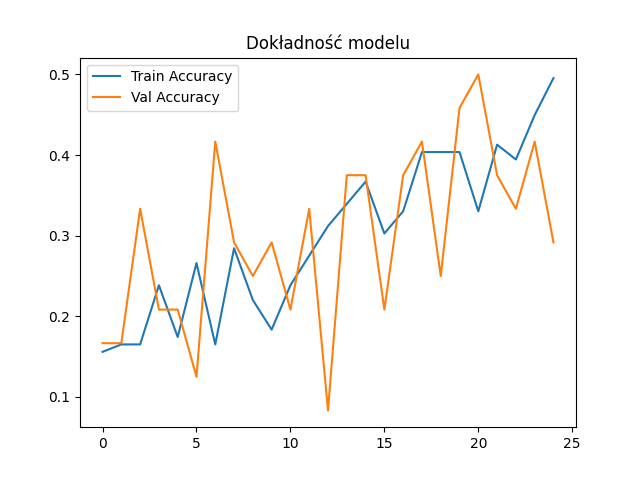
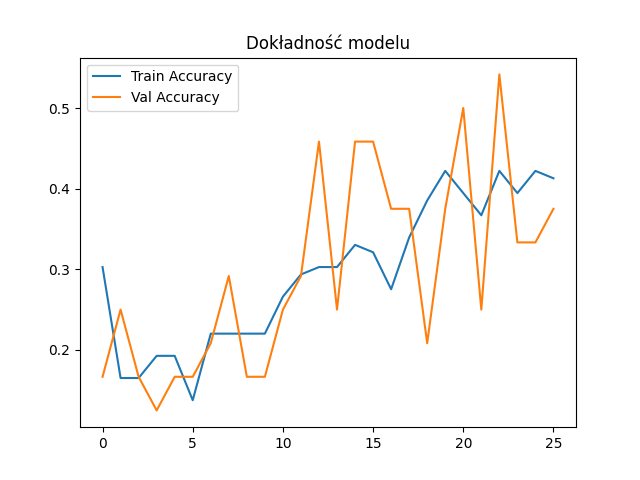
update: stage 3; add: stage 4, 2 problems
Added two problems: images under angle, deleted saved models

diff --git a/script/train-dice-model/two-dices.py b/script/train-dice-model/two-dices.py
@@ -19,14 +19,14 @@ from tensorflow.keras.preprocessing.image import ImageDataGenerator
 
 IMG_SIZE = (224, 224)
 BATCH_SIZE = 32
-EPOCHS = 30
-TRIAL = 9
+EPOCHS = 300
+TRIAL = 21
 NUM_CLASSES = 21
 
-ONE_DICE_MODEL_PATH = 'model/dice-model/best-model/best-one-dice.keras'
+ONE_DICE_MODEL_PATH = 'model/dice-model/two-dices/best-dice-model-trial-20.keras'
 DATASET_PATH = 'train/image/two-dices/images'
 ANNOTATION_FILE = 'train/image/two-dices/rolls.xml'
-MODEL_SAVE_PATH = 'model/dice-model/train/two-dices'
+MODEL_SAVE_PATH = 'model/dice-model/two-dices'
 RAPORT_SAVE_PATH = 'raport/train-dice-model/two-dices'
 
 os.makedirs(MODEL_SAVE_PATH, exist_ok=True)
@@ -44,12 +44,13 @@ except NameError:
     print("Uwaga: nie można zapisać kopii skryptu (__file__ nie istnieje)")
 
 train_datagen = ImageDataGenerator(
-    rotation_range=15,
-    width_shift_range=0.1,
-    height_shift_range=0.1,
-    shear_range=10,
-    zoom_range=0.1,
-    brightness_range=[0.8, 1.2],
+    rotation_range=25,
+    width_shift_range=0.15,
+    height_shift_range=0.15,
+    shear_range=20,
+    zoom_range=[0.9, 1.1],
+    brightness_range=[0.7, 1.3],
+    channel_shift_range=10.0,
     horizontal_flip=True,
     vertical_flip=False,
     fill_mode='nearest',

diff --git a/script/train-dice-model/one-dice.py b/script/train-dice-model/one-dice.py
@@ -21,11 +21,11 @@ def create_model(filters=[32, 64, 128], dropout=0.3):
 
 IMG_SIZE = (224, 224)
 BATCH_SIZE = 32
-EPOCHS = 30
+EPOCHS = 50
 DATASET_PATH = 'train/image/one-dice'
-MODEL_SAVE_PATH = 'model/train-dice-model/one-dice'
+MODEL_SAVE_PATH = 'model/dice-model/one-dice'
 RAPORT_SAVE_PATH = 'raport/train-dice-model/one-dice'
-TRIAL = 10
+TRIAL = 14
 
 datagen = ImageDataGenerator(
     rescale=1./255,
@@ -33,10 +33,10 @@ datagen = ImageDataGenerator(
     rotation_range=10,
     width_shift_range=0.05,
     height_shift_range=0.05,
-    shear_range=0.0,
-    zoom_range=0.0,
+    shear_range=0.05,
+    zoom_range=0.05,
     horizontal_flip=True,
-    # brightness_range=[0.9, 1.1],
+    brightness_range=[0.8, 1.2],
     fill_mode='nearest'
 )
 
@@ -76,7 +76,7 @@ history = model.fit(
     callbacks=callbacks
 )
 
-model.save(os.path.join(MODEL_SAVE_PATH, "dice-model-one-dice-trial-"+str(TRIAL)+".keras"))
+model.save(os.path.join(MODEL_SAVE_PATH, "trial-"+str(TRIAL)+".keras"))
 
 print(f'Model zapisany')
 

diff --git a/raport/raport.md b/raport/raport.md
@@ -31,18 +31,28 @@ Prace rozpocząłem od wyboru technologii, w której zrealizuję projekt. Zdecyd
 Skorzystałem z ogólnodostępnych datasetów zdjęć kości do gry. Zebrałem około 2000 zdjęć przedstawiających różne układy kostek z różnych perspektyw [zobacz załączniki](#załączniki). Następnie przygotowałem strukturę projektu oraz odpowiednio skonfigurowałem `.gitignore`.
 
 ### Etap 3 - trenowanie rozpoznawania jednej kości
-Celem tego etapu było stworzenie modelu AI, który rozpoznaje liczbę oczek (1–6) na pojedynczej kostce. Eksperymentowałem z różnymi parametrami augmentacji oraz architektury CNN. W Trialu 10 zastosowałem 2 warstwy Conv2D (32 i 64 filtry), dropout 0.3 oraz lekką augmentację. Ten wariant okazał się najskuteczniejszy – zarówno accuracy na zbiorze walidacyjnym, jak i treningowym rosło stabilnie bez oznak przeuczenia.
+Celem tego etapu było stworzenie modelu AI, który rozpoznaje liczbę oczek (1–6) na pojedynczej kostce. Eksperymentowałem z różnymi parametrami augmentacji oraz architektury CNN. Na podstawie wcześniejszych prób, które zakończyły się błędem zarządzania plikami i utratą modeli (Trials 9 i 10) - [zobacz problem](#usunięty-zapis-modelu)- wybrałem dwa najlepsze warianty: Trial 13 i Trial 14. Wersja Trial 13 była bardziej stabilna, natomiast Trial 14 wyróżniała się bardziej agresywną augmentacją. Zakładając, że model jest na etapie wstępnego uczenia (prelearning) uznałem, że Trial 14 będzie lepszym wyborem, ponieważ trenowałem go na ograniczonym zbiorze danych, a dalsze etapy powinny stabilizować model.
+
+W trialu 14 zastosowałem dwie warstwy Conv2D (32 i 64 filtry), dropout na poziomie 0.3 oraz lekką augmentację. Ten wariant okazał się najskuteczniejszy – zarówno accuracy na zbiorze walidacyjnym, jak i treningowym rosło znacząco bez oznak przeuczenia. Najwyższa osiągnięta dokładność wyniosła 54,2%. Po zakończeniu treningu przystąpiłem do kolejnego etapu, wykorzystując wytrenowany model jako punkt startowy.
 
 ### Etap 4 - trenowanie rozpoznawania dwóch kości
+Etap 4 miał na celu kontynuację nauki modelu wytrenowanego w Etapie 3, tym razem na bardziej wymagającym zbiorze danych. Nowy zbiór zawierał 800 zdjęć przedstawiających dwie kości sfotografowane z trudnej perspektywy - pod kątem 45° z boku. Taka perspektywa powodowała, że na każdej kości widoczne były jednocześnie trzy ścianki [zobacz problem](#zdjęcia-pod-kątem). Dla 21 klas taka liczba przykładów była bardzo ograniczona co stanowiło dodatkowe wyzwanie.
+
+W celu poprawy jakości klasyfikacji zastosowałem transfer learning z poprzedniego etapu z modelem MobileNetV2 oraz znacznie bardziej zaawansowaną augmentację, rozszerzoną m.in. o Mixup i CutMix. Najlepszy wynik osiągnąłem w Trial 21 osiągając dokładność: 15.3%, który został napisany na podstawie Trial 12 (dokładność: 14.7%), który był pierwotnym modelem, ale nie został zachowany z powodu błędu wspomnianego w 3 Etapie [zobacz problem](#usunięty-zapis-modelu). Model trenował się stabilnie przez ponad 100 epok, a najlepszy wynik uzyskałem jeszcze przed ukończeniem pełnego treningu, dzięki czemu moje obawy z hiperbolicznymi wynikami zostały zażegnane.Pomimo relatywnie niskiej dokładności, model uznałem za wystarczająco dobry dla danej bazy obrazów, by kontynuować dalsze eksperymenty.
+
+### Etap 
 
 ## Problemy i wyzwania
 ### Transer Learning 
 Pierwszym problemem okazał się transfer learning, na początku ciężko było stabilnie przenieść trening z pierwszego skryptu do drugiego, ale w końcu się udało. Mam nadzieję tylko, że pod koniec będzie to opłacalne i wytrenowanie na tylko jednym datasetcie nie będzie bardziej skuteczne.
 
-### Zdjęcia pod kątem
-Dużym problemem było nauczenie programu umiejętności rozpoznawania kości gdy zdjęcie było pod kątem. 
-
 ### Zbyt mały dataset
-Pomimo połączenia 4 datasetów i posiadaniu w sumie 2000 obrazów była to zbyt mała ilość przez co ai często się myliła
+Pomimo połączenia 4 datasetów i posiadaniu w sumie 2000 obrazów była to zbyt mała ilość przez co ai często się myliła.
+
+### Zdjęcia pod kątem
+Dużym wyzwaniem okazało się rozpoznawanie kostek na zdjęciach wykonywanych pod kątem. Z uwagi na znaczne obniżenie dokładności dla kątów około 45°, planuję dalsze trenowanie modelu z uwzględnieniem tych trudniejszych ujęć. W przypadku, gdy ostateczny model będzie miał poważne problemy z rozpoznawaniem kości przy kątach nawet około 22,5°, rozważę wytrenowanie osobnego modelu na danych z dodatkowymi etykietami wysokości. Nie rozpocząłem nauki z tego poziomu od razu, aby uniknąć nieprawidłowego trenowania na dominującym w zbiorze materiale wykonanym z góry. Zamiast tego, skorzystałem z możliwości augmentacji, aby zwiększyć różnorodność danych wejściowych.
+
+### Usunięty zapis modelu
+Podczas pracy z repozytorium Git doszło do przypadkowego usunięcia zapisanych modeli z etapów 3 i 4, co uniemożliwiło ich ponowne wykorzystanie. Rozpocząłem trenowanie nowego modelu na tych samych etykietach i pierwszy wynik był słabszy aż o około 30% - dokładność spadła o 4%. Mimo chęci przejścia do następnego etapu z gorszym wynikiem, zdecydowałem się ponownie wytrenować model na najlepszych dostępnych wcześniej etykietach. To okazało się sukcesem - prawdopodobnie wcześniej skorzystałem ze złego skryptu i wynik nowego modelu nie tylko nie był gorszy, ale też lepszy o 4% względem poprzedniego. Można zatem powiedzieć, że nie ma tego złego co na dobre nie wyszło.
 
 ## Załączniki
